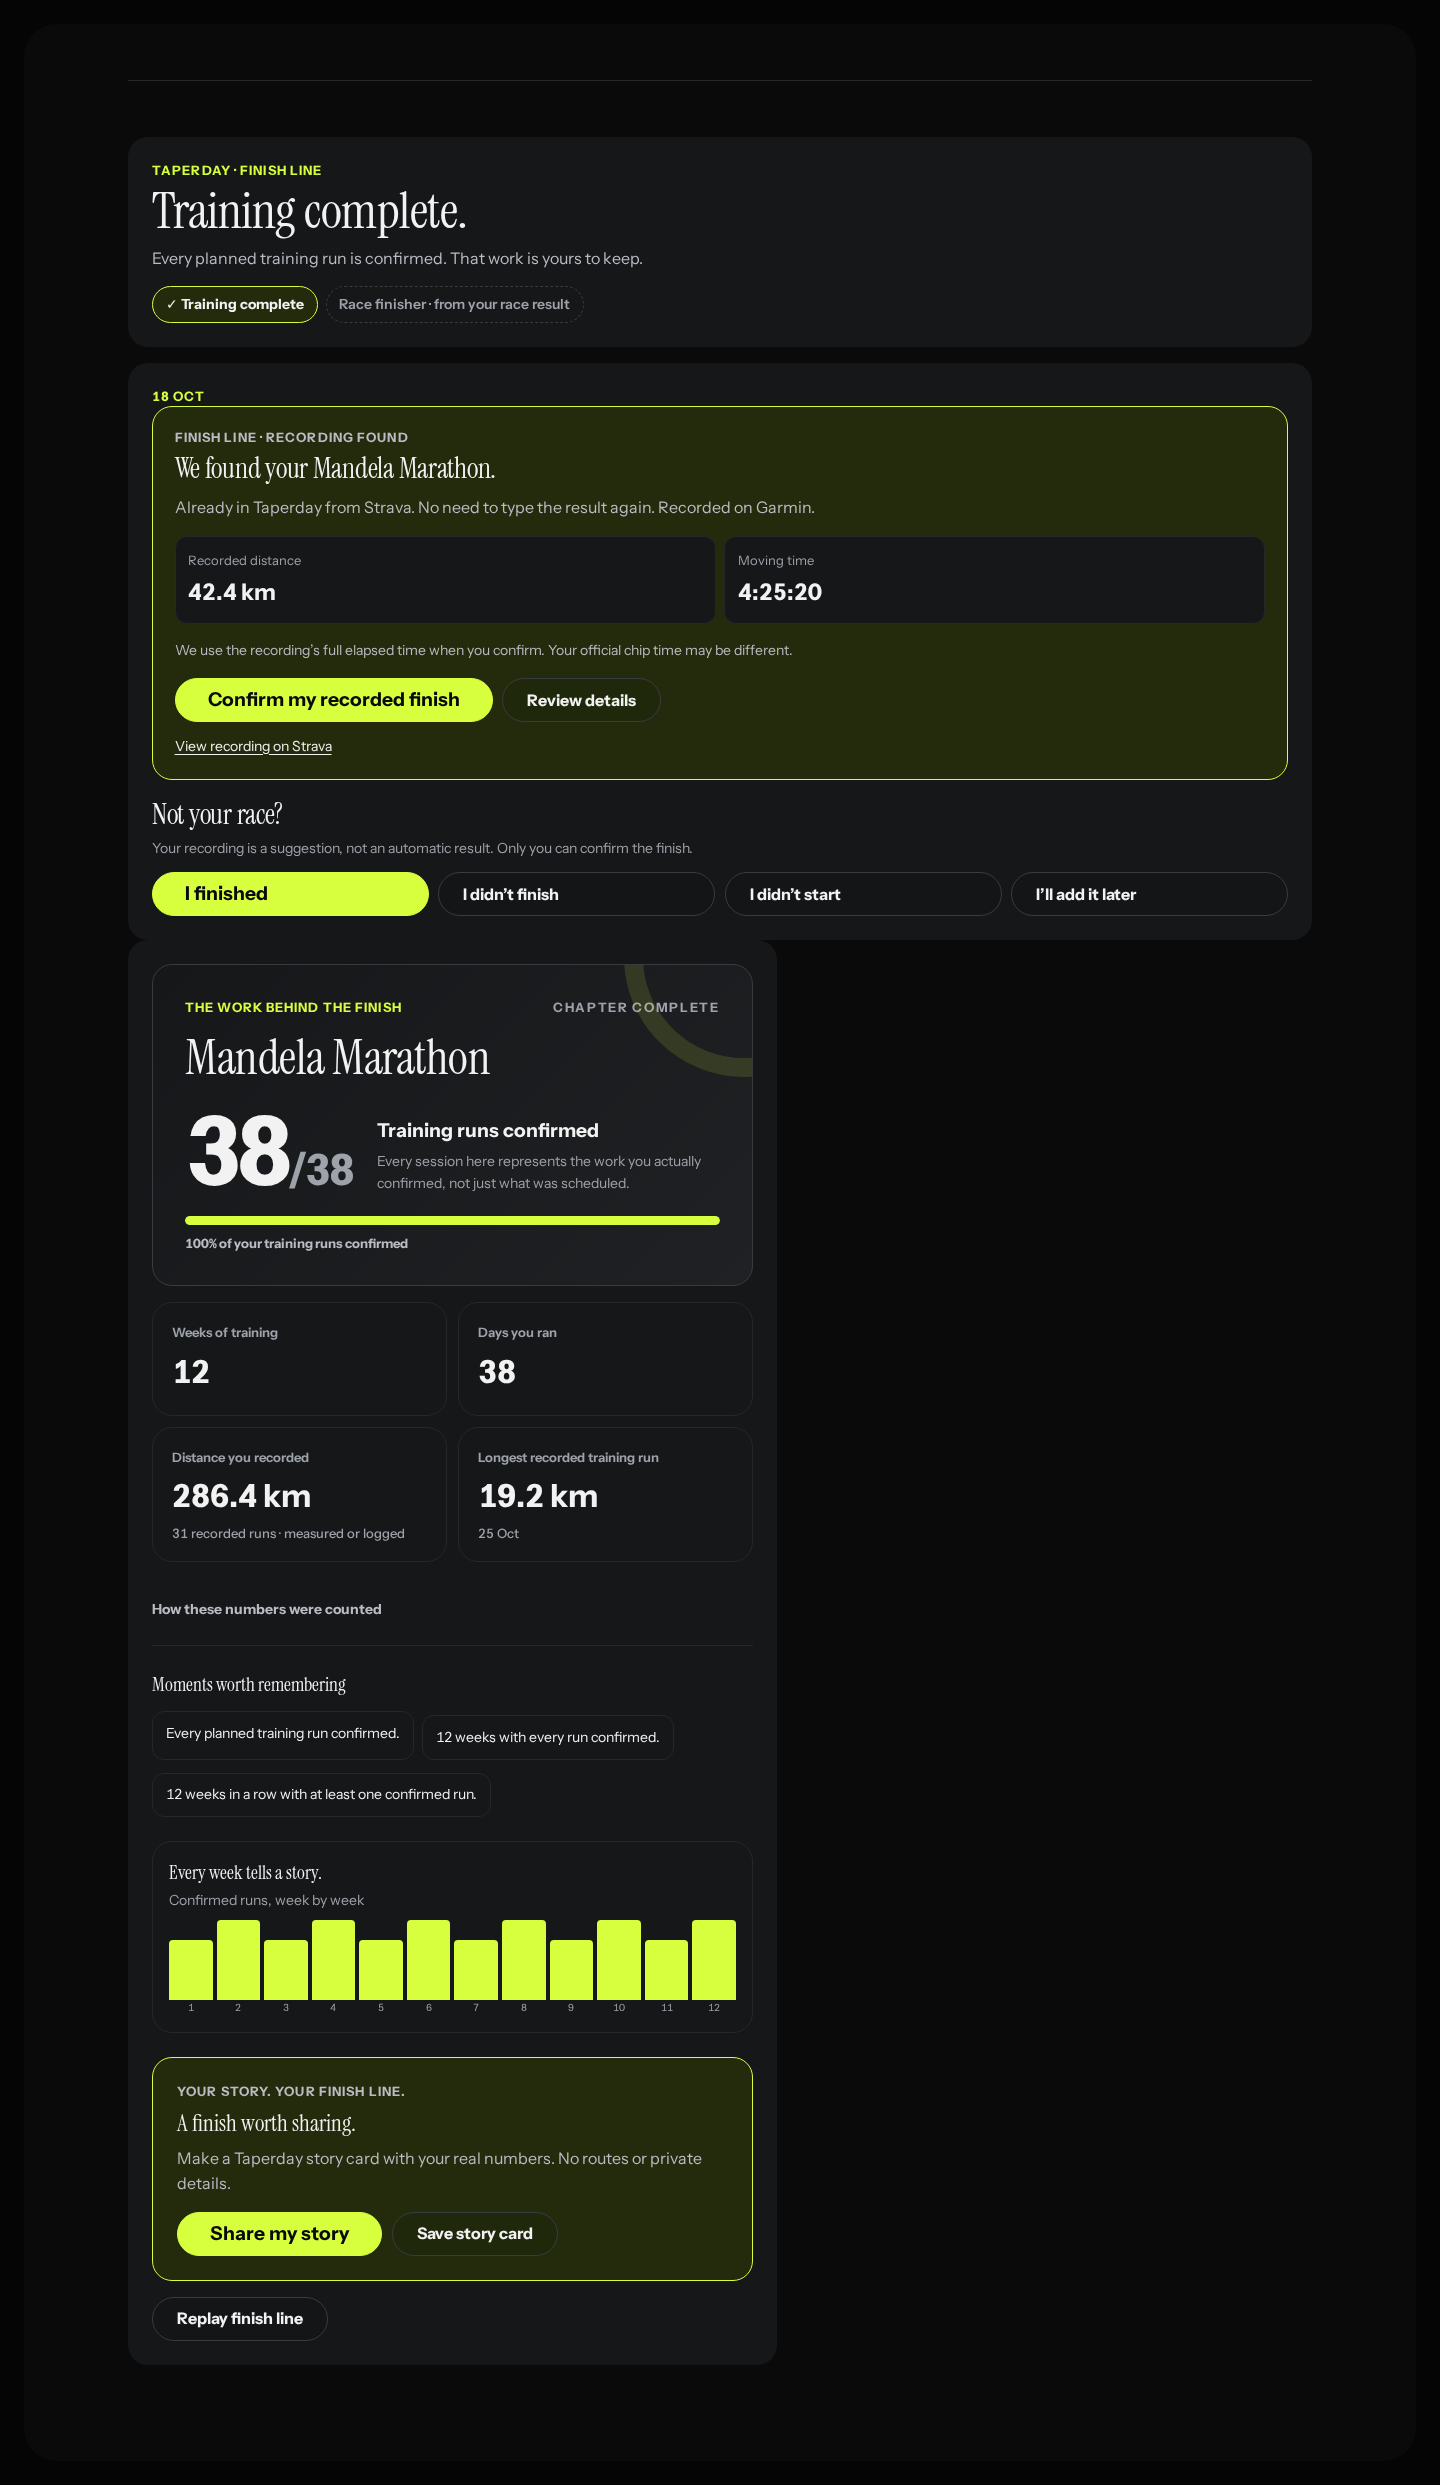
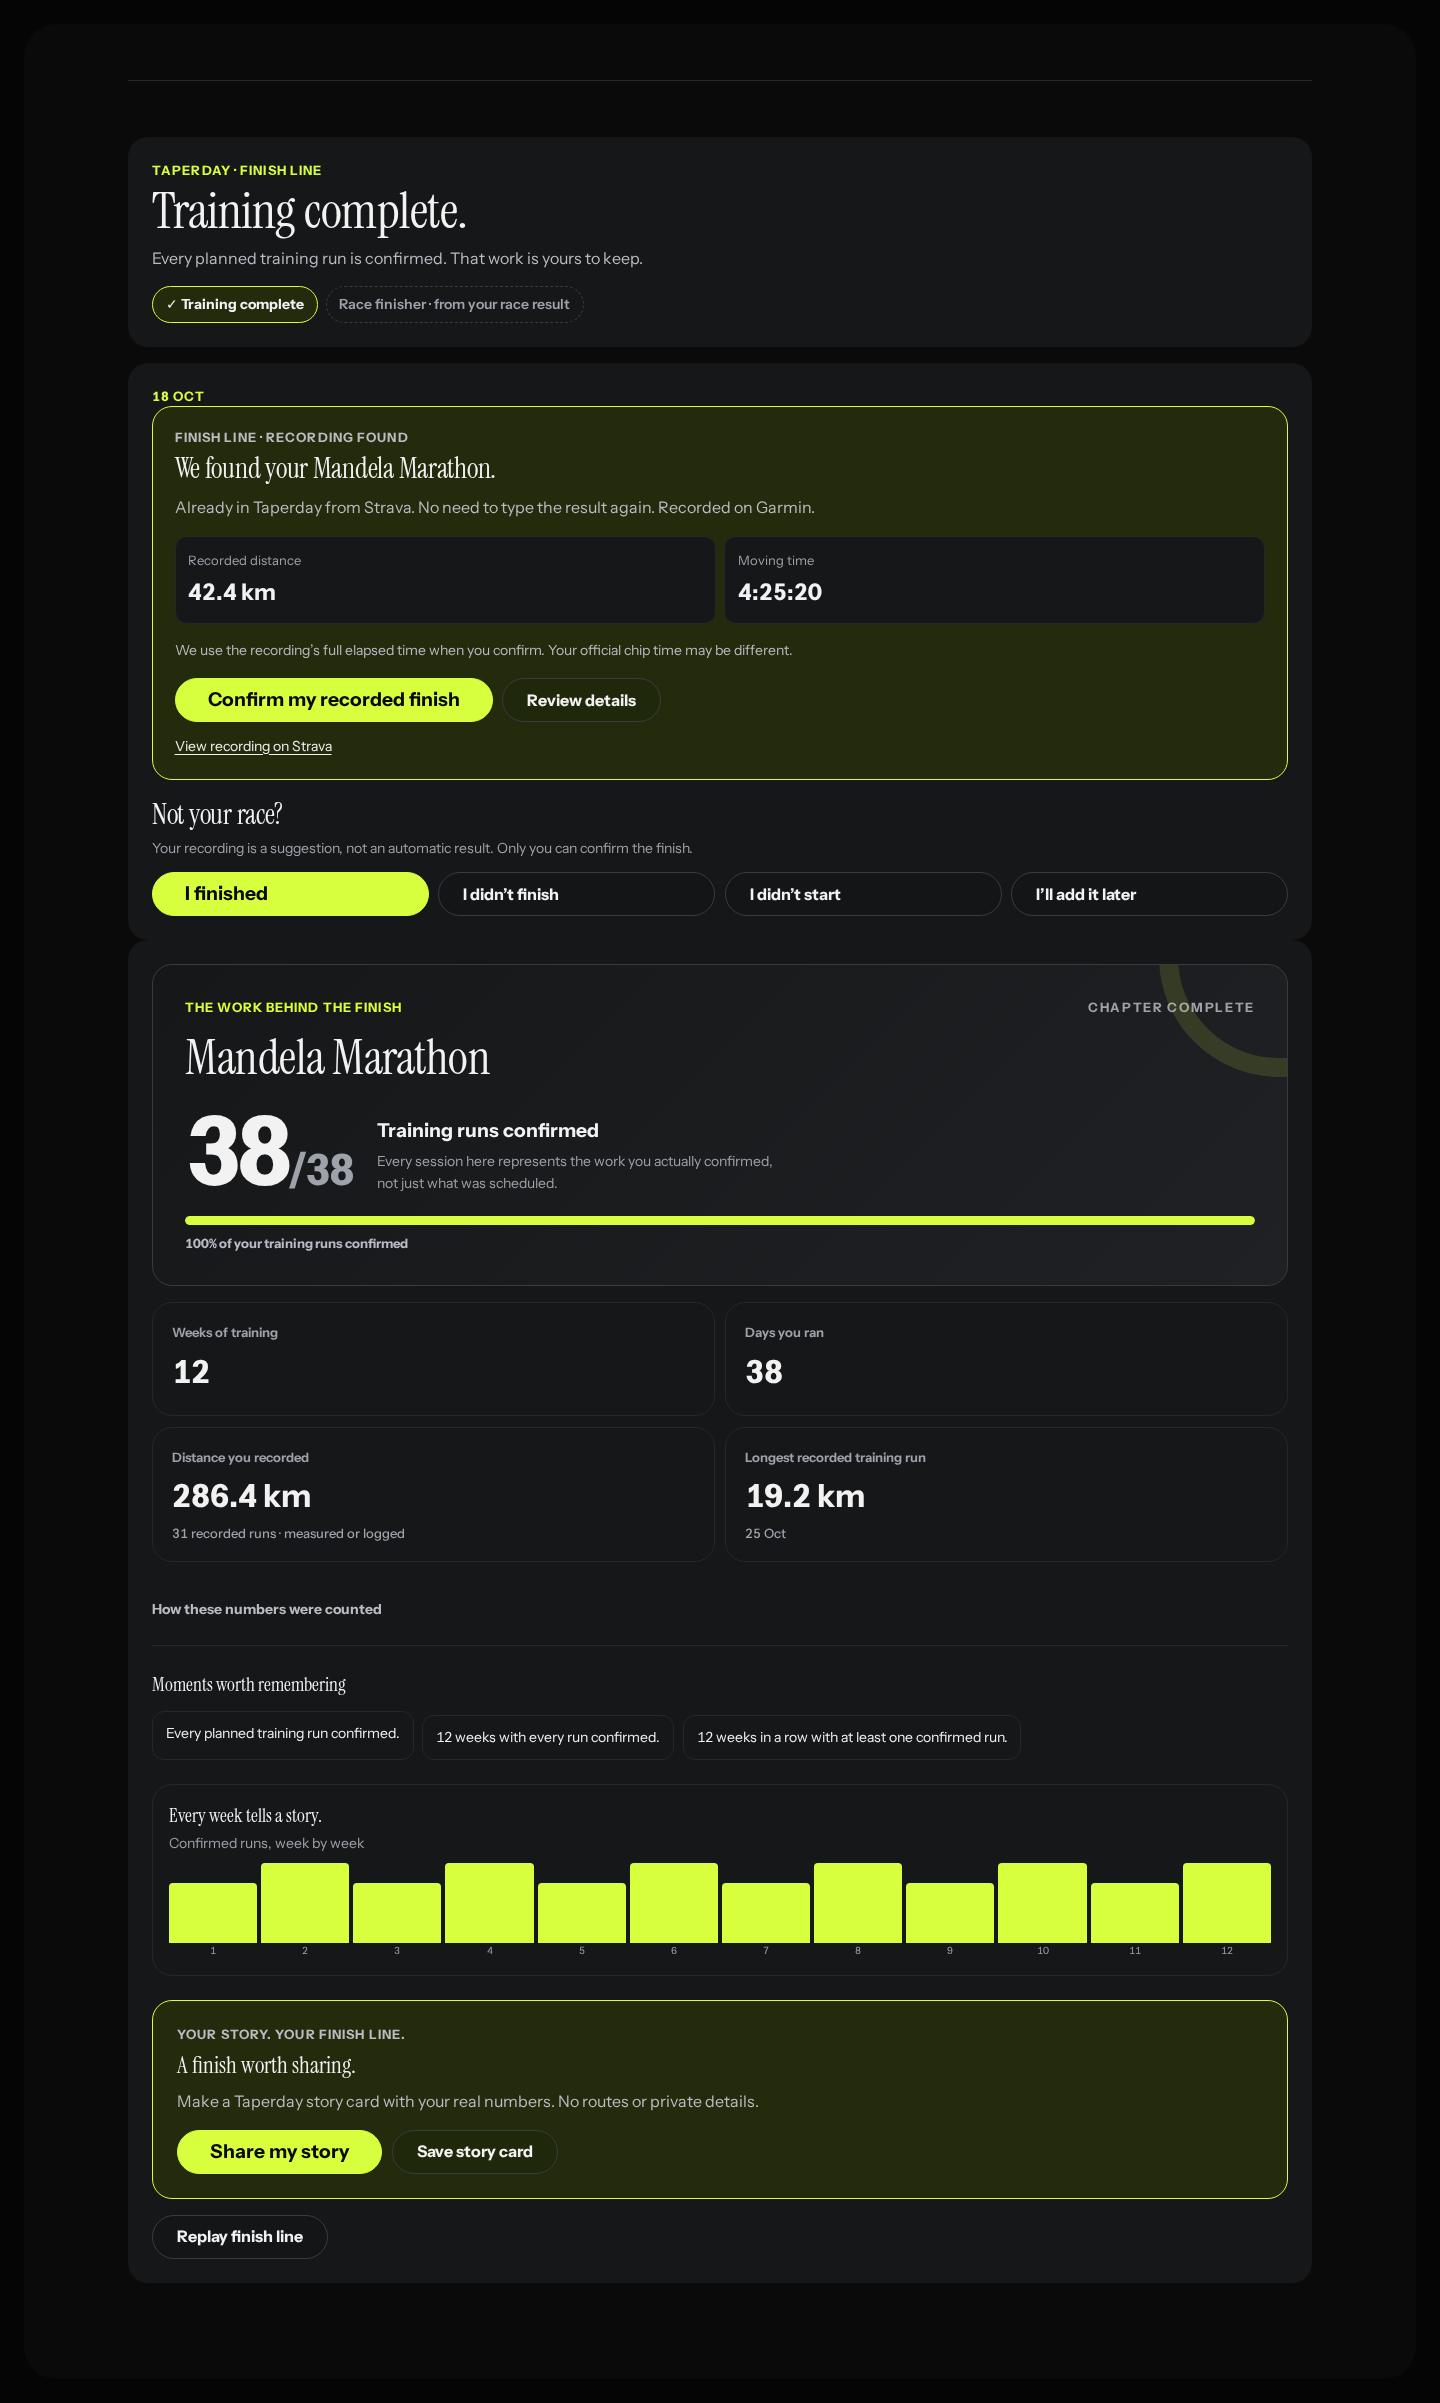
fix(journey): use the full story width when the sidebar is empty

diff --git a/client/e2e/finish-line.spec.ts b/client/e2e/finish-line.spec.ts
@@ -80,6 +80,11 @@ test.describe('finish line journey', () => {
     await expect(page.getByText(/No need to type the result again/)).toBeVisible()
     await expect(page.getByRole('button', { name: 'Confirm my recorded finish' })).toBeEnabled()
     await expect(page.getByRole('heading', { name: 'How did race day go?' })).toHaveCount(0)
+    await page.setViewportSize({ width: 1440, height: 900 })
+    const storyWidth = await page.locator('.journey-main').evaluate(element => element.getBoundingClientRect().width)
+    const gridWidth = await page.locator('.journey-grid').evaluate(element => element.getBoundingClientRect().width)
+    expect(storyWidth).toBeGreaterThanOrEqual(gridWidth - 1)
+    await page.setViewportSize({ width: 375, height: 812 })
     await accessible(page)
     await page.screenshot({ path: shot('12-strava-marathon-found-phone'), fullPage: true })
 

diff --git a/client/src/features/journey/journey.css b/client/src/features/journey/journey.css
@@ -91,6 +91,8 @@
 @media (min-width: 1024px) {
   .journey-grid { grid-template-columns: minmax(0, 1.25fr) minmax(0, 1fr); align-items: start; }
 }
+.journey-grid:has(> .journey-side:empty) { grid-template-columns: minmax(0, 1fr); }
+.journey-side:empty { display: none; }
 .journey-badges { display: flex; flex-wrap: wrap; gap: .5rem; padding: 0; margin: var(--space-4) 0 0; list-style: none; }
 .journey-badges li { display: inline-flex; flex-direction: column; padding: .4rem .8rem; border-radius: 999px; border: 1px solid var(--line-strong); font-size: var(--text-sm); font-weight: 700; }
 .journey-badges li.is-earned { background: var(--accent-soft); border-color: var(--accent); color: var(--ink); }

diff --git a/docs/qa/2026-11-14/strava-race-results.md b/docs/qa/2026-11-14/strava-race-results.md
@@ -6,7 +6,7 @@ PR: [#263](https://github.com/Menzi-Thami/start-line/pull/263). All accounts, pl
 
 Race suggestions use the plan's race date, running activity kind and a bounded distance tolerance. A suggestion never creates a result or achievement. A single match can be confirmed directly; multiple recordings, including near-identical upload/Strava copies, require a choice first. Confirmation loads authenticated activity detail and validates the ID, date, kind, distance and full elapsed time before saving. Moving time is only a labelled preview. The runner can review the values, substitute chip time, enter a result manually or undo it.
 
-The pending-result prompt precedes the training recap on both current and past chapters. A recording-list error keeps chapter history and manual entry available, with a retry. Failed saves retain verified values; late recording/chapter responses cannot confirm a closed form or reopen an older chapter.
+The pending-result prompt precedes the training recap on both current and past chapters. When no secondary journey content is present, the recap uses the full desktop width rather than reserving an empty sidebar. A recording-list error keeps chapter history and manual entry available, with a retry. Failed saves retain verified values; late recording/chapter responses cannot confirm a closed form or reopen an older chapter.
 
 Linking a run from the manual form loads its actual distance and elapsed time, retaining the runner's chosen outcome and note. An edited result holds the version the runner opened, so a background refresh cannot silently approve overwriting another device's changes. Successful writes remain visible if their following refresh fails. Account changes hide the preceding runner's history and celebrations, and invalidate token retrieval for pending writes.
 
